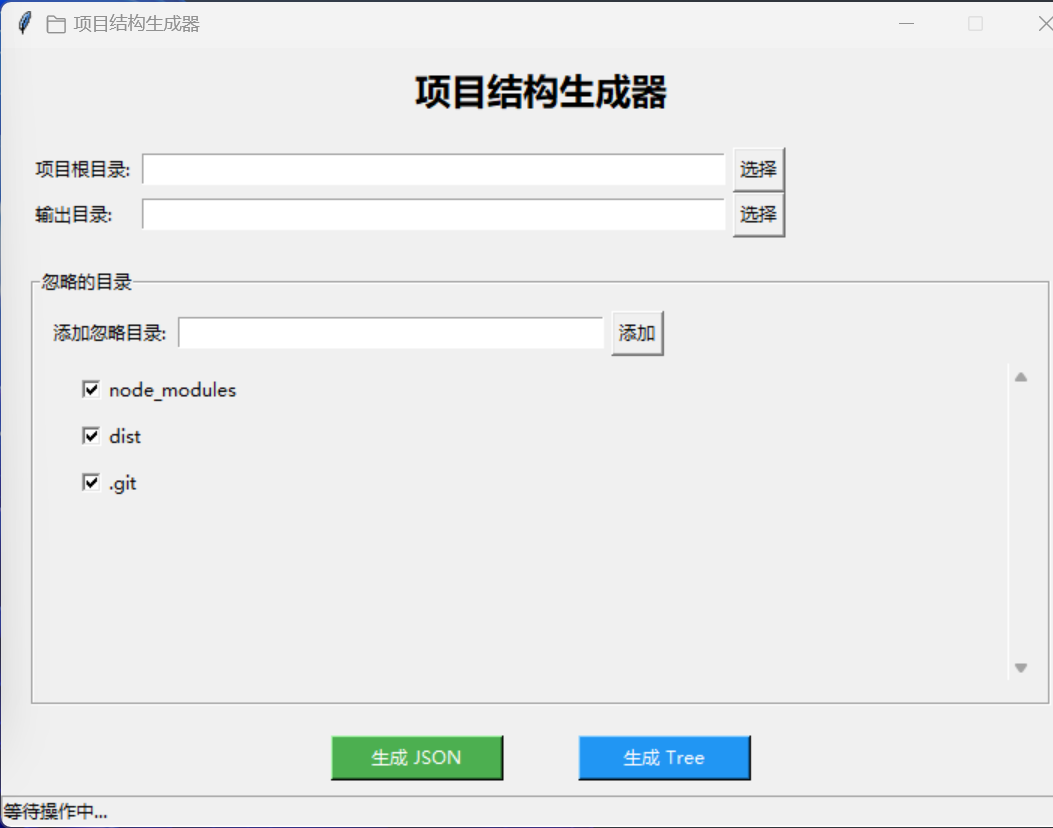
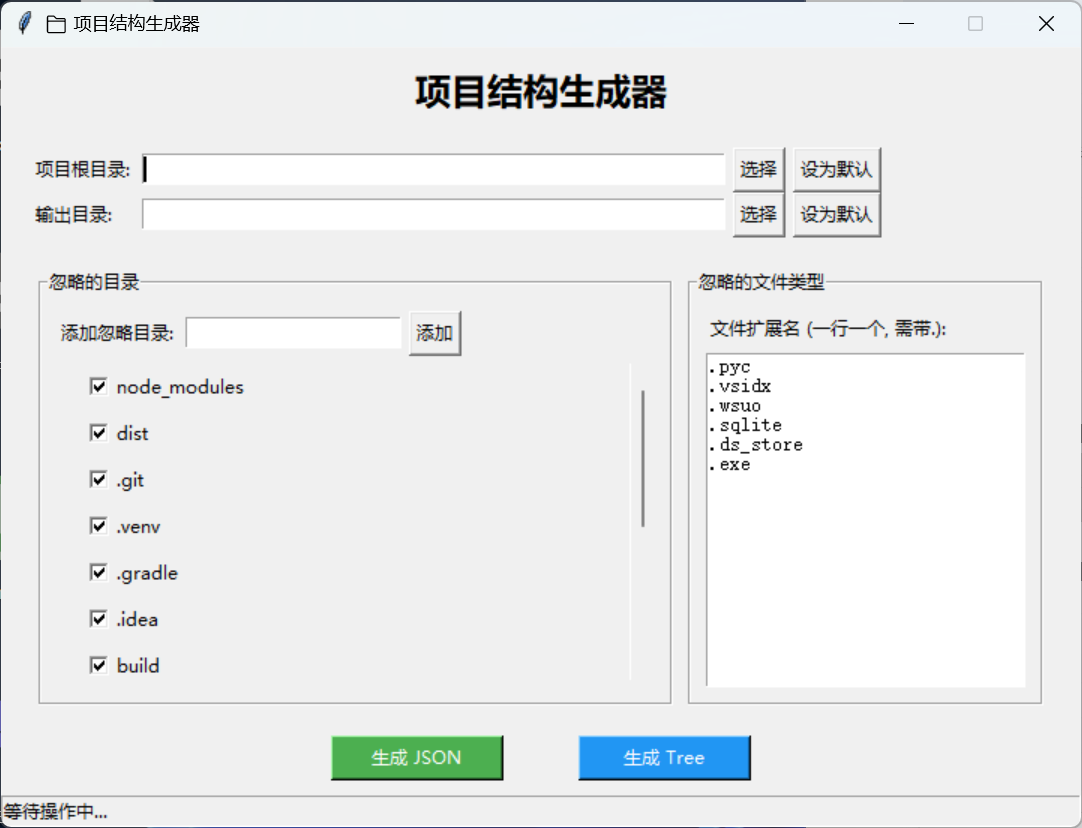
readme和base.png的修改

diff --git a/README.md b/README.md
@@ -12,7 +12,7 @@
   1. **project_content.json**：保存项目中每个文件的路径及其内容
   2. **project_tree.md**：以树形结构展示项目文件层级
 * 自动跳过二进制文件，防止读取异常
-* 所有配置项（包括默认路径与忽略目录）均保存在 `settings.json` 中，可自动加载与保存
+* 所有配置项（包括默认路径与忽略目录/文件）均保存在 `settings.json` 中，可自动加载与保存
 
 ## 功能截图
 - 项目主界面
@@ -57,8 +57,10 @@
 2. 在界面中：
 
    * 选择项目根目录（Root Dir）
-   * 添加或移除忽略的文件夹
    * 选择输出目录（Result Dir）
+   * (可选)可以将根目录或输出目录保存为默认值
+   * 添加或移除忽略的文件夹
+   * 修改需要忽略的文件后缀名
    * 点击 “生成 JSON” 或 “生成 Tree” 按钮即可输出结果
 
 3. 程序将在输出目录中生成：
@@ -73,8 +75,6 @@ Windows 下生成可执行文件，可使用以下命令：
 
 ```bash
 pip install pyinstaller
-rmdir /s /q build
-rmdir /s /q dist
 pyinstaller --noconsole --onefile --name "项目结构生成器" --add-data "settings.json;." --icon=./static/app.ico __main__.py
 ```
 
